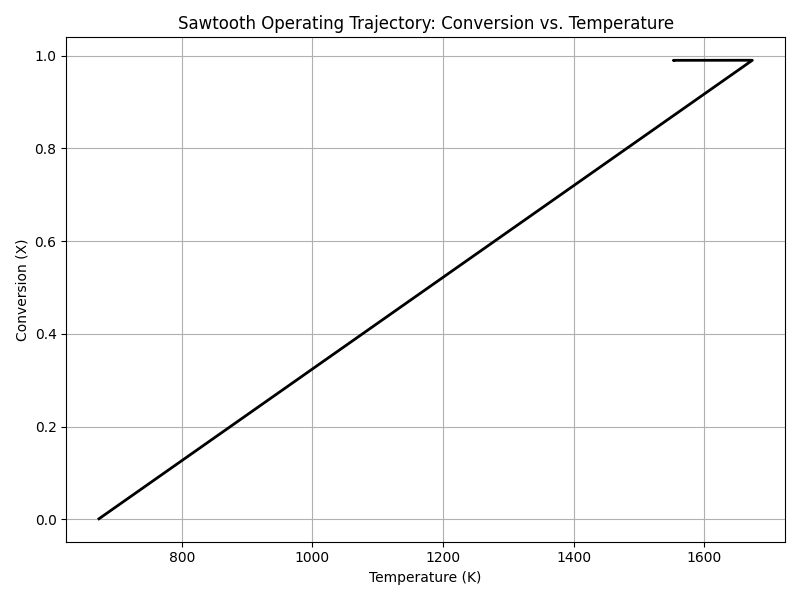
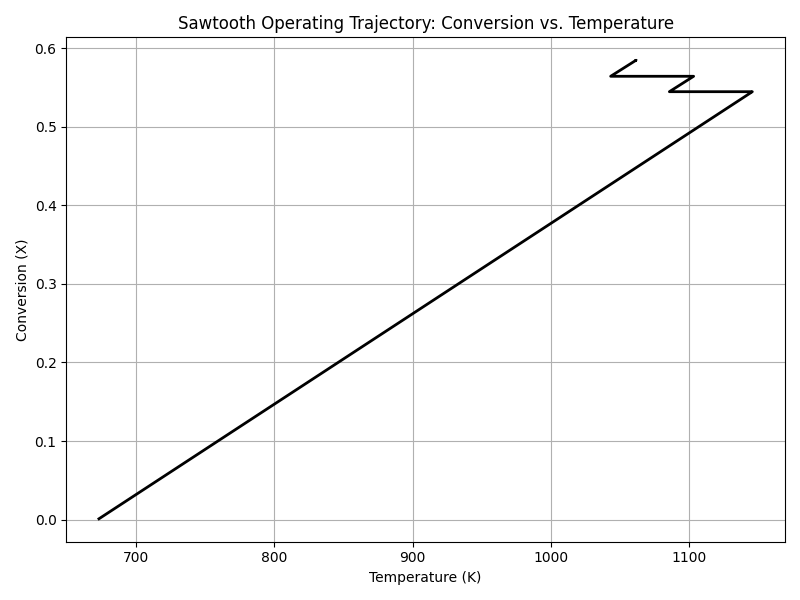
Update reactor model with advanced kinetics, thermodynamics, and new analytical plots

diff --git a/plotting.py b/plotting.py
@@ -1,0 +1,117 @@
+import numpy as np
+import matplotlib
+matplotlib.use('Agg')
+import matplotlib.pyplot as plt
+from kinetics import calculate_rate, calculate_Kp
+from scipy.optimize import root_scalar
+
+def calculate_x_eq(T, P0, inerts_ratio):
+    """
+    Solves for the equilibrium conversion X_eq at a given Temperature and Pressure.
+    """
+    Kp = calculate_Kp(T)
+    
+    def eq_residual(X):
+        # Prevent math domain errors from invalid X
+        if X >= 0.999:
+            return 1e6
+        if X <= 1e-5:
+            return -1e6
+            
+        n_total = 4.0 - 2.0 * X + inerts_ratio
+        P_N2 = ((1.0 - X) / n_total) * P0
+        P_H2 = ((3.0 - 3.0 * X) / n_total) * P0
+        P_NH3 = ((2.0 * X) / n_total) * P0
+        
+        return (P_NH3**2 / (P_N2 * P_H2**3)) - Kp
+        
+    try:
+        sol = root_scalar(eq_residual, bracket=[1e-5, 0.99], method='brentq')
+        if sol.converged:
+            return sol.root
+        return 0.0
+    except ValueError:
+        return 0.0
+
+def generate_analytical_plots(W_all, X_all, T_all, P0, inerts_ratio):
+    """
+    Generates crucial analytical plots for reactor analysis.
+    """
+    # 1. Reactor Profiles (Conversion & Temp)
+    fig1, ax1 = plt.subplots(figsize=(10, 6))
+    color_x = 'tab:blue'
+    ax1.set_xlabel('Catalyst Weight, W (kg)', fontsize=12, fontweight='bold')
+    ax1.set_ylabel('Conversion (X)', color=color_x, fontsize=12, fontweight='bold')
+    ax1.plot(W_all, X_all, color=color_x, linewidth=2.5, label='Conversion')
+    ax1.tick_params(axis='y', labelcolor=color_x)
+    ax1.grid(True, alpha=0.3)
+    
+    ax2 = ax1.twinx()
+    color_t = 'tab:red'
+    ax2.set_ylabel('Temperature (K)', color=color_t, fontsize=12, fontweight='bold')
+    ax2.plot(W_all, T_all, color=color_t, linewidth=2.5, linestyle='--', label='Temperature')
+    ax2.tick_params(axis='y', labelcolor=color_t)
+    
+    plt.title('Multi-Bed PFR Profiles: Conversion and Temperature', fontsize=14, fontweight='bold')
+    fig1.tight_layout()
+    fig1.savefig('reactor_profiles.png', dpi=300)
+    plt.close(fig1)
+
+    # 2. Sawtooth Trajectory with Equilibrium Curve
+    # Generate range of temperatures to plot the equilibrium curve
+    T_min = min(T_all) - 20
+    T_max = max(T_all) + 50
+    T_range = np.linspace(T_min, T_max, 100)
+    X_eq = [calculate_x_eq(T, P0, inerts_ratio) for T in T_range]
+    
+    fig2, ax3 = plt.subplots(figsize=(9, 6))
+    ax3.plot(T_all, X_all, 'k-', linewidth=2.5, label='Actual Operating Trajectory')
+    ax3.plot(T_range, X_eq, 'r--', linewidth=2, label='Equilibrium Limit (X_eq)')
+    
+    ax3.set_xlabel('Temperature (K)', fontsize=12, fontweight='bold')
+    ax3.set_ylabel('Conversion (X)', fontsize=12, fontweight='bold')
+    ax3.set_title('Sawtooth Operating Trajectory vs. Equilibrium Curve', fontsize=14, fontweight='bold')
+    ax3.set_xlim(T_min, T_max)
+    ax3.set_ylim(0, max(max(X_all)+0.1, 0.7))
+    ax3.grid(True, alpha=0.5)
+    ax3.legend(loc='lower right', fontsize=11)
+    
+    fig2.tight_layout()
+    fig2.savefig('sawtooth_equilibrium.png', dpi=300)
+    plt.close(fig2)
+    
+    # 3. Mole Fractions vs Catalyst Weight
+    y_N2, y_H2, y_NH3, y_inerts = [], [], [], []
+    for X in X_all:
+        n_total = 4.0 - 2.0 * X + inerts_ratio
+        y_N2.append((1.0 - X) / n_total)
+        y_H2.append((3.0 - 3.0 * X) / n_total)
+        y_NH3.append((2.0 * X) / n_total)
+        y_inerts.append(inerts_ratio / n_total)
+        
+    fig3, ax4 = plt.subplots(figsize=(10, 6))
+    ax4.plot(W_all, y_H2, label='Hydrogen (H2)', linewidth=2.5, color='tab:orange')
+    ax4.plot(W_all, y_N2, label='Nitrogen (N2)', linewidth=2.5, color='tab:blue')
+    ax4.plot(W_all, y_NH3, label='Ammonia (NH3)', linewidth=2.5, color='tab:green')
+    ax4.plot(W_all, y_inerts, label='Inerts (Ar, CH4)', linewidth=2, color='gray', linestyle=':')
+    
+    ax4.set_xlabel('Catalyst Weight, W (kg)', fontsize=12, fontweight='bold')
+    ax4.set_ylabel('Mole Fraction (y_i)', fontsize=12, fontweight='bold')
+    ax4.set_title('Gas Composition along the Reactor', fontsize=14, fontweight='bold')
+    ax4.grid(True, alpha=0.3)
+    ax4.legend(fontsize=11)
+    fig3.tight_layout()
+    fig3.savefig('composition_profile.png', dpi=300)
+    plt.close(fig3)
+    
+    # 4. Reaction Rate Profile
+    rates = [calculate_rate(X, T, P0, inerts_ratio) for X, T in zip(X_all, T_all)]
+    fig4, ax5 = plt.subplots(figsize=(10, 6))
+    ax5.plot(W_all, rates, color='purple', linewidth=2.5)
+    ax5.set_xlabel('Catalyst Weight, W (kg)', fontsize=12, fontweight='bold')
+    ax5.set_ylabel("Reaction Rate ($-r'_{N2}$, mol/kg·s)", fontsize=12, fontweight='bold')
+    ax5.set_title('Reaction Rate vs. Catalyst Weight', fontsize=14, fontweight='bold')
+    ax5.grid(True, alpha=0.3)
+    fig4.tight_layout()
+    fig4.savefig('rate_profile.png', dpi=300)
+    plt.close(fig4)

diff --git a/thermo.py b/thermo.py
@@ -1,24 +1,61 @@
+def calculate_Cp(T, component):
+    """
+    Returns the heat capacity in J/(mol K) for a given component at temperature T (K).
+    """
+    if component == 'N2':
+        A, B, C, D = 29.00, 0.2199e-2, 0.5723e-5, -2.871e-9
+    elif component == 'H2':
+        A, B, C, D = 28.84, 0.00765e-2, 0.3288e-5, -0.8698e-9
+    elif component == 'NH3':
+        A, B, C, D = 27.31, 2.383e-2, 1.707e-5, -1.185e-8
+    elif component == 'Inerts':
+        A, B, C, D = 29.00, 0.2199e-2, 0.5723e-5, -2.871e-9  # Roughly approximate to N2/Argon
+    else:
+        A, B, C, D = 29.0, 0.0, 0.0, 0.0
+        
+    return A + B*T + C*T**2 + D*T**3
+
 def calculate_heat_of_rxn(T):
     """
-    Returns the heat of reaction in J/mol for the synthesis of ammonia.
-    Approximated as constant across temperature.
+    Returns the heat of reaction in J/mol for the synthesis of ammonia
+    using Kirchhoff's equation.
     """
-    return -92220.0
+    A_N2, B_N2, C_N2, D_N2 = 29.00, 0.2199e-2, 0.5723e-5, -2.871e-9
+    A_H2, B_H2, C_H2, D_H2 = 28.84, 0.00765e-2, 0.3288e-5, -0.8698e-9
+    A_NH3, B_NH3, C_NH3, D_NH3 = 27.31, 2.383e-2, 1.707e-5, -1.185e-8
+    
+    Delta_A = 2 * A_NH3 - (A_N2 + 3 * A_H2)
+    Delta_B = 2 * B_NH3 - (B_N2 + 3 * B_H2)
+    Delta_C = 2 * C_NH3 - (C_N2 + 3 * C_H2)
+    Delta_D = 2 * D_NH3 - (D_N2 + 3 * D_H2)
+    
+    T_ref = 298.15
+    Delta_H_298 = -92220.0  # J/mol N2
+    
+    integral_Cp = (
+        Delta_A * (T - T_ref) + 
+        (Delta_B / 2.0) * (T**2 - T_ref**2) + 
+        (Delta_C / 3.0) * (T**3 - T_ref**3) + 
+        (Delta_D / 4.0) * (T**4 - T_ref**4)
+    )
+    
+    return Delta_H_298 + integral_Cp
 
-def calculate_thermal_mass(X, T, F_N2_0):
+def calculate_thermal_mass(X, T, F_N2_0, inerts_ratio=0.0):
     """
     Calculates sum(F_i * C_p,i) given the conversion X, temperature T,
-    and initial molar flow rate of N2.
+    initial molar flow rate of N2, and the molar ratio of inerts to N2 feed.
     """
-    # Constant average heat capacities in J/(mol K)
-    Cp_N2 = 29.1
-    Cp_H2 = 28.8
-    Cp_NH3 = 35.1
+    Cp_N2 = calculate_Cp(T, 'N2')
+    Cp_H2 = calculate_Cp(T, 'H2')
+    Cp_NH3 = calculate_Cp(T, 'NH3')
+    Cp_Inerts = calculate_Cp(T, 'Inerts')
     
     # Molar flow rates
     F_N2 = F_N2_0 * (1.0 - X)
     F_H2 = 3.0 * F_N2_0 * (1.0 - X)
     F_NH3 = 2.0 * F_N2_0 * X
+    F_Inerts = F_N2_0 * inerts_ratio
     
     # Thermal mass = sum(F_i * Cp_i)
-    return F_N2 * Cp_N2 + F_H2 * Cp_H2 + F_NH3 * Cp_NH3
+    return F_N2 * Cp_N2 + F_H2 * Cp_H2 + F_NH3 * Cp_NH3 + F_Inerts * Cp_Inerts

diff --git a/main.py b/main.py
@@ -4,6 +4,7 @@ import matplotlib.pyplot as plt
 import numpy as np
 from scipy.integrate import solve_ivp
 from reactor_model import pfr_balances
+from plotting import generate_analytical_plots
 
 def main():
     # Operating Conditions
@@ -45,8 +46,10 @@ def main():
         y0 = [current_X, current_T]
         
         # Solver Setup: Must use Radau for stiff chemical ODEs
+        # 4% inerts (Argon, Methane) in feed, given basic 3:1 stoich.
+        # N2: 24%, H2: 72%, Inerts: 4% -> inerts_ratio = 4.0 / 24.0
         sol = solve_ivp(
-            fun=lambda W, y: pfr_balances(W, y, P0, F_N2_0),
+            fun=lambda W, y: pfr_balances(W, y, P0, F_N2_0, inerts_ratio=4.0/24.0),
             t_span=[W_start, W_end],
             y0=y0,
             method='Radau',
@@ -81,40 +84,10 @@ def main():
     # Convert lists to Numpy arrays
     W_all = np.array(W_all)
     X_all = np.array(X_all)
-    T_all = np.array(T_all)
-    
-    # --- Plot 1: Reactor Profiles ---
-    fig1, ax1 = plt.subplots(figsize=(10, 6))
-    
-    color_x = 'tab:blue'
-    ax1.set_xlabel('Catalyst Weight, W (kg)')
-    ax1.set_ylabel('Conversion (X)', color=color_x)
-    ax1.plot(W_all, X_all, color=color_x, linewidth=2, label='Conversion')
-    ax1.tick_params(axis='y', labelcolor=color_x)
-    
-    ax2 = ax1.twinx()
-    color_t = 'tab:red'
-    ax2.set_ylabel('Temperature (K)', color=color_t)
-    ax2.plot(W_all, T_all, color=color_t, linewidth=2, label='Temperature')
-    ax2.tick_params(axis='y', labelcolor=color_t)
-    
-    plt.title('Multi-Bed PFR Profiles: Conversion and Temperature vs Catalyst Weight')
-    fig1.tight_layout()
-    fig1.savefig('reactor_profiles.png')
-    plt.close(fig1)
-    
-    # --- Plot 2: Sawtooth Trajectory ---
-    fig2, ax3 = plt.subplots(figsize=(8, 6))
-    
-    ax3.plot(T_all, X_all, 'k-', linewidth=2)
-    ax3.set_xlabel('Temperature (K)')
-    ax3.set_ylabel('Conversion (X)')
-    ax3.set_title('Sawtooth Operating Trajectory: Conversion vs. Temperature')
-    ax3.grid(True)
-    
-    fig2.tight_layout()
-    fig2.savefig('sawtooth_trajectory.png')
-    plt.close(fig2)
+    # Generate analytical visuals from our new module
+    print("Generating analysis plots...")
+    generate_analytical_plots(W_all, X_all, T_all, P0, inerts_ratio=4.0/24.0)
+    print("Done! Plots saved safely.")
 
 if __name__ == "__main__":
     main()

diff --git a/kinetics.py b/kinetics.py
@@ -1,6 +1,16 @@
 import math
 
-def calculate_rate(X, T, P0):
+def calculate_Kp(T):
+    """
+    Empirical equilibrium constant for N2 + 3H2 <-> 2NH3.
+    """
+    # Gillespie-Beattie correlation for Kp (atm^-2)
+    log10_Keq = -2.691122 * math.log10(T) - 5.519265e-5 * T + 1.848863e-7 * T**2 + 2001.6 / T + 2.6899
+    # Clamp to prevent overflow warning during solver exploration
+    log10_Keq = min(log10_Keq, 300.0)
+    return 10**log10_Keq
+
+def calculate_rate(X, T, P0, inerts_ratio=0.0):
     """
     Calculate the rate of reaction using the Temkin-Pyzhev kinetics.
     Returns -r'_N2.
@@ -9,19 +19,21 @@ def calculate_rate(X, T, P0):
     
     # Arrhenius Parameters
     E1 = 170660.0  # J/mol
-    E2 = 150420.0  # J/mol
-    A1 = 1.79e14
-    A2 = 2.5e10
+    A1 = 1.79e14   # kmol/m³·h·atm^0.5 roughly, typical for models
     alpha = 0.5
     
     k1 = A1 * math.exp(-E1 / (R * T))
-    k2 = A2 * math.exp(-E2 / (R * T))
+    
+    # Use equilibrium constant Kp instead of Arrhenius for backward rate
+    Kp = calculate_Kp(T)
+    k2 = k1 / Kp
     
     # Molar flow rates proportional calculations
     n_N2 = 1.0 - X
     n_H2 = 3.0 * (1.0 - X)
     n_NH3 = 2.0 * X
-    n_total = n_N2 + n_H2 + n_NH3
+    n_inerts = inerts_ratio
+    n_total = n_N2 + n_H2 + n_NH3 + n_inerts
     
     # Mole fractions
     y_N2 = n_N2 / n_total

diff --git a/reactor_model.py b/reactor_model.py
@@ -1,7 +1,7 @@
 from kinetics import calculate_rate
 from thermo import calculate_heat_of_rxn, calculate_thermal_mass
 
-def pfr_balances(W, y, P0, F_N2_0):
+def pfr_balances(W, y, P0, F_N2_0, inerts_ratio=0.0):
     """
     ODE function for the plug flow reactor.
     y = [X, T]
@@ -9,15 +9,19 @@ def pfr_balances(W, y, P0, F_N2_0):
     """
     X, T = y
     
+    # Clamp variables to prevent solver from evaluating unphysical states
+    X = min(max(X, 1e-5), 0.999)
+    T = max(T, 100.0)
+    
     # Get the kinetic rate (-r'_N2)
-    minus_r_prime_N2 = calculate_rate(X, T, P0)
+    minus_r_prime_N2 = calculate_rate(X, T, P0, inerts_ratio)
     
     # Mole balance
     dX_dW = minus_r_prime_N2 / F_N2_0
     
     # Energy balance
     delta_H_rxn = calculate_heat_of_rxn(T)
-    thermal_mass = calculate_thermal_mass(X, T, F_N2_0)
+    thermal_mass = calculate_thermal_mass(X, T, F_N2_0, inerts_ratio)
     
     # dT/dW = (-r'_N2) * (-Delta H_rxn) / (Sum(F_i * Cp_i))
     dT_dW = minus_r_prime_N2 * (-delta_H_rxn) / thermal_mass
